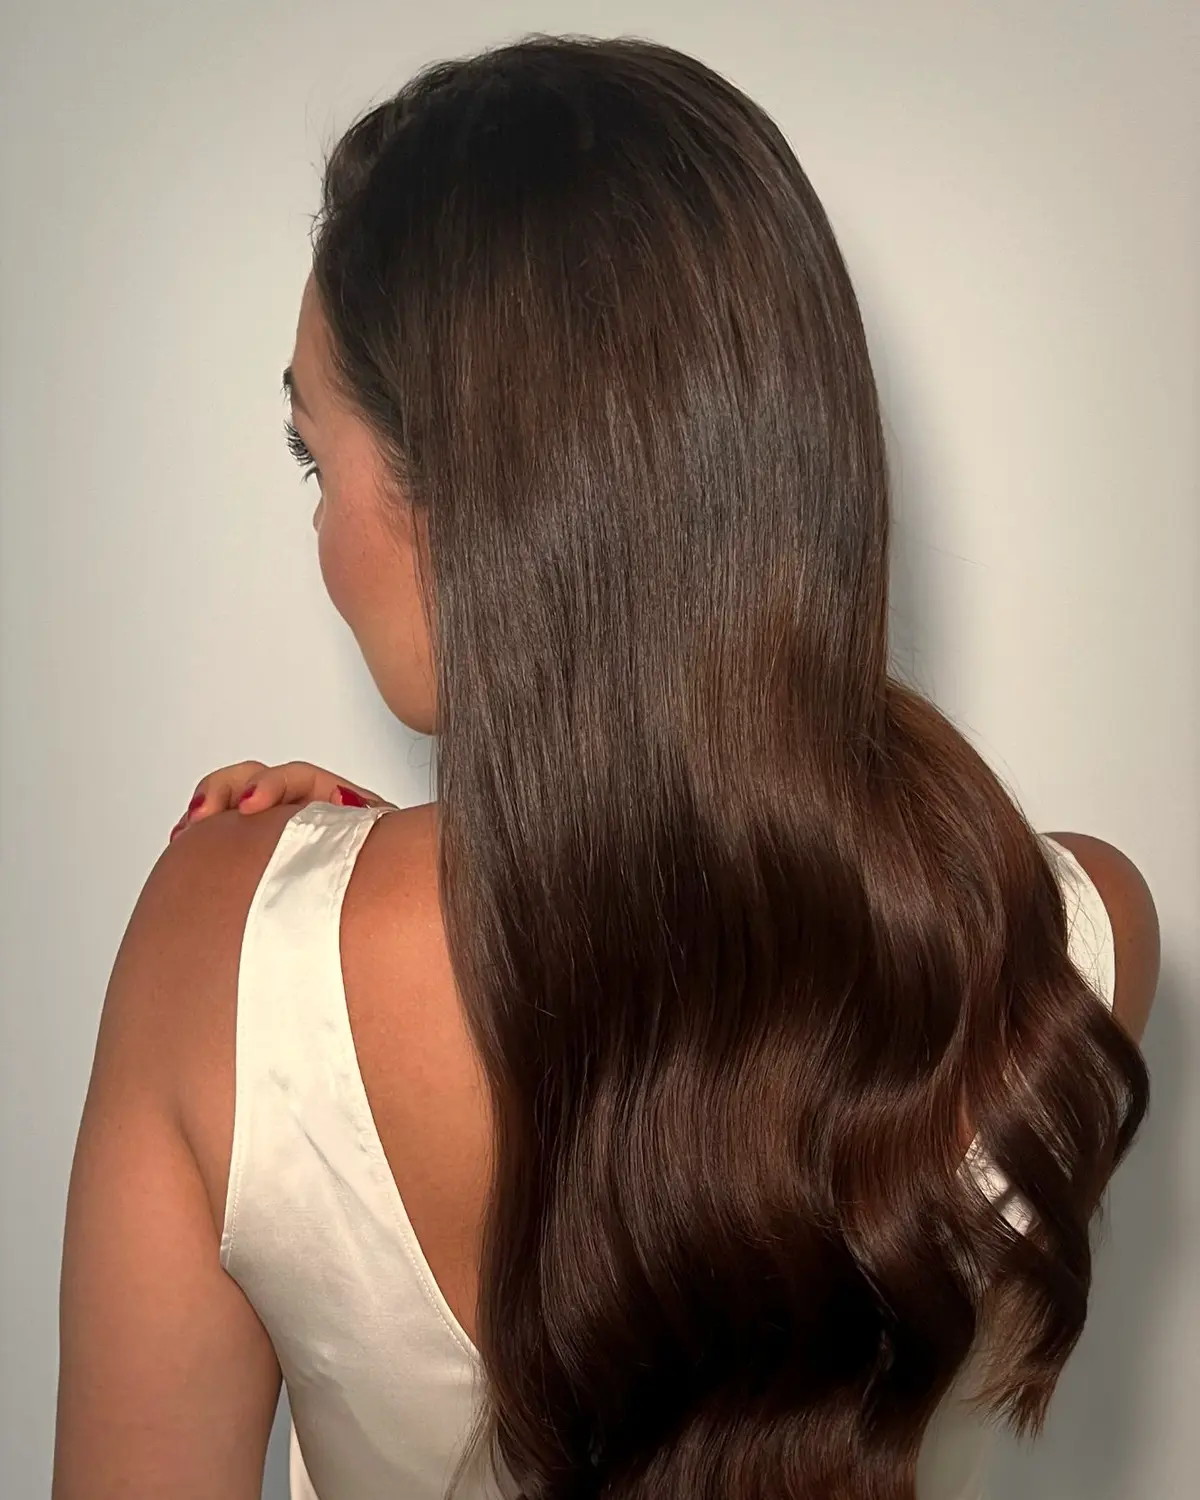
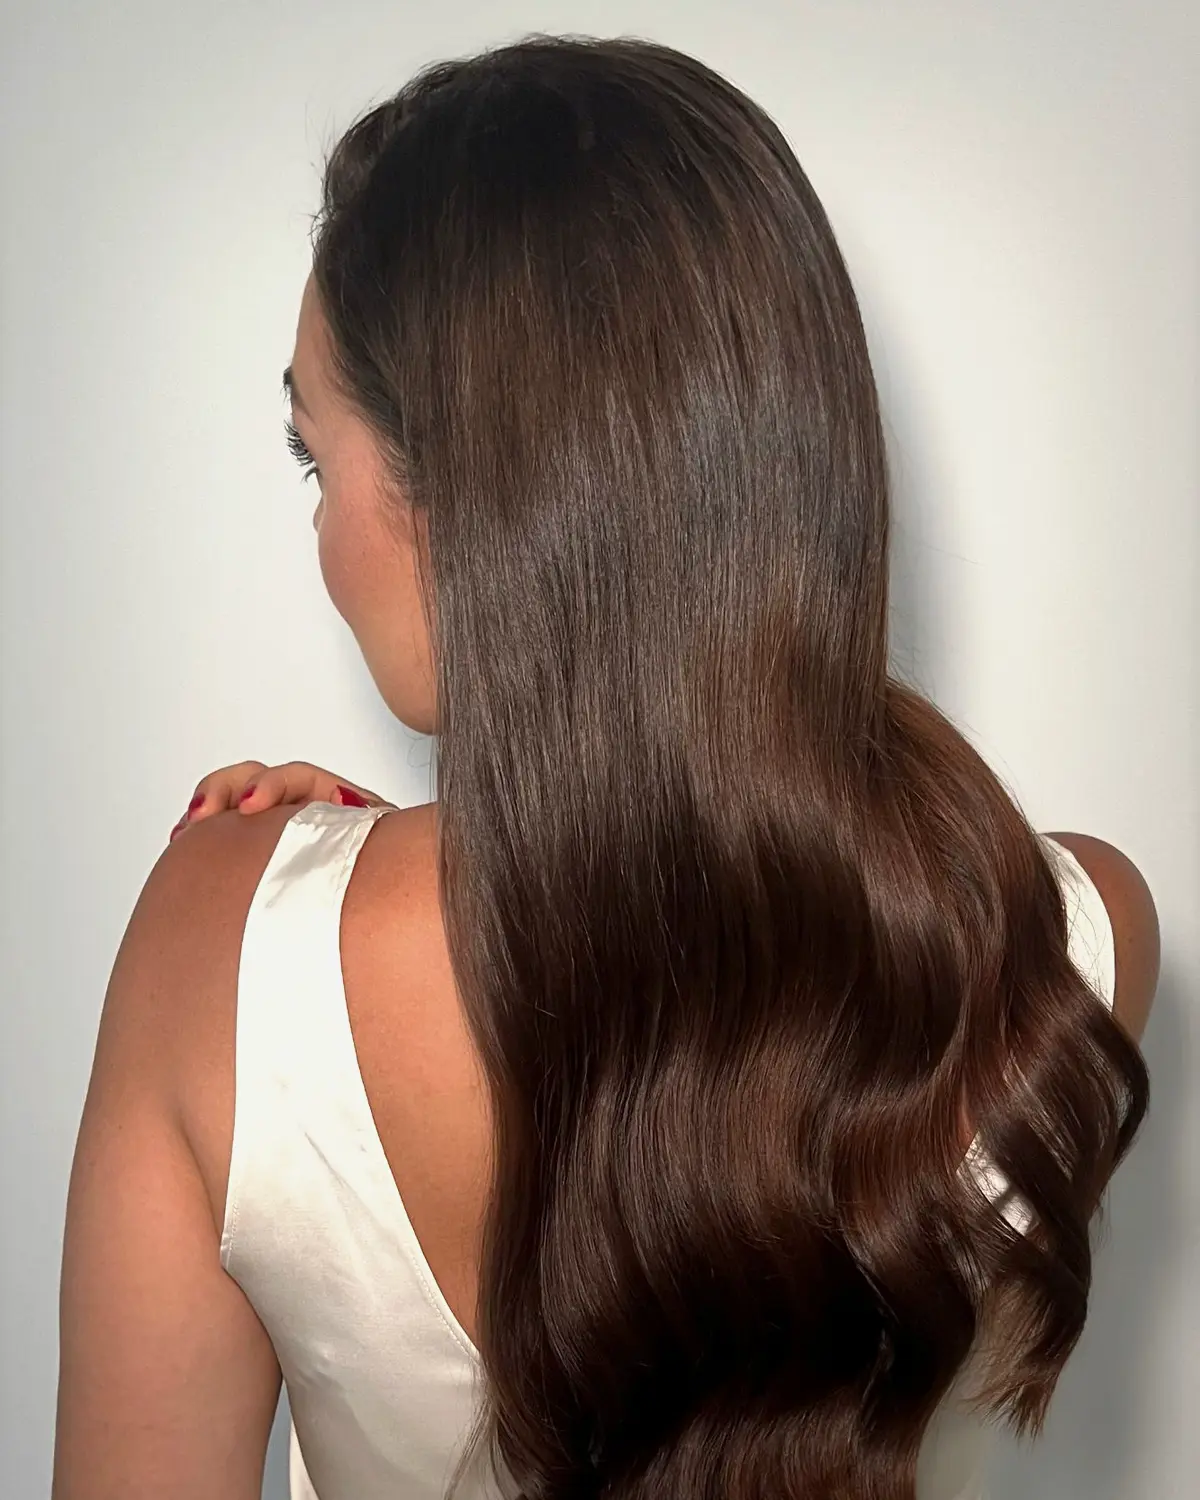
Add Half Up and Ponytail images, harmonize all catalog images
Claude-Session: https://claude.ai/code/session_01Psd1c15DkTXSssEPuBD7wk

diff --git a/bridal-looks/frisurenkatalog.html b/bridal-looks/frisurenkatalog.html
@@ -104,32 +104,32 @@
       </div>
     </div>
   </section>
-  <section id="frisur-3" class="border-t border-taupe/50 bg-champagne/50 scroll-mt-24" aria-labelledby="frisur-3-titel" data-draft>
+  <section id="frisur-3" class="border-t border-taupe/50 bg-champagne/50 scroll-mt-24" aria-labelledby="frisur-3-titel">
     <div class="max-w-content mx-auto px-6 md:px-10 py-16 md:py-24">
       <div class="reveal">
         <span class="eyebrow">Frisur 3</span>
         <h2 id="frisur-3-titel" class="font-display text-3xl md:text-4xl mt-3">Half Up</h2>
       </div>
       <div data-gallery class="mt-8 md:mt-10 flex flex-col md:flex-row gap-4 md:gap-6 md:items-start">
-        <div data-main class="reveal w-full md:w-[420px] aspect-[4/5] overflow-hidden"><div class="w-full h-full bg-champagne/70 border border-taupe/40 flex items-center justify-center text-sm text-espresso-soft">Titelbild folgt</div></div>
+        <div data-main class="reveal w-full md:w-[420px] aspect-[4/5] overflow-hidden"><img src="../assets/images/brautfrisur-half-up-geflochten-locken-sarstedt.webp" alt="Half-Up-Brautfrisur mit Flechtelement und weichen Locken, Rückansicht" class="w-full h-full object-cover" loading="lazy" width="1200" height="1500"></div>
         <div class="flex md:flex-col gap-4">
-          <button type="button" data-thumb aria-label="Beispielbild 1 groß anzeigen" class="w-24 md:w-28 aspect-[4/5] overflow-hidden border border-transparent hover:border-espresso focus-visible:border-espresso transition-colors"><div class="w-full h-full bg-champagne/70 border border-taupe/40 flex items-center justify-center text-sm text-espresso-soft">Beispiel 1</div></button>
-          <button type="button" data-thumb aria-label="Beispielbild 2 groß anzeigen" class="w-24 md:w-28 aspect-[4/5] overflow-hidden border border-transparent hover:border-espresso focus-visible:border-espresso transition-colors"><div class="w-full h-full bg-champagne/70 border border-taupe/40 flex items-center justify-center text-sm text-espresso-soft">Beispiel 2</div></button>
+          <button type="button" data-thumb aria-label="Weiteres Beispiel groß anzeigen" class="w-24 md:w-28 aspect-[4/5] overflow-hidden border border-transparent hover:border-espresso focus-visible:border-espresso transition-colors"><img src="../assets/images/brautfrisur-half-up-geflochten-blond-sarstedt.webp" alt="Half Up mit Flechtkranz bei blondem Haar, Rückansicht" class="w-full h-full object-cover" loading="lazy" width="1200" height="1500"></button>
+          <button type="button" data-thumb aria-label="Weiteres Beispiel groß anzeigen" class="w-24 md:w-28 aspect-[4/5] overflow-hidden border border-transparent hover:border-espresso focus-visible:border-espresso transition-colors"><img src="../assets/images/brautfrisur-half-up-twist-wellen-sarstedt.webp" alt="Half Up mit gedrehtem Haarknoten und langen Wellen, Rückansicht" class="w-full h-full object-cover" loading="lazy" width="1200" height="1500"></button>
         </div>
       </div>
     </div>
   </section>
-  <section id="frisur-4" class="border-t border-taupe/50 bg-ivory scroll-mt-24" aria-labelledby="frisur-4-titel" data-draft>
+  <section id="frisur-4" class="border-t border-taupe/50 bg-ivory scroll-mt-24" aria-labelledby="frisur-4-titel">
     <div class="max-w-content mx-auto px-6 md:px-10 py-16 md:py-24">
       <div class="reveal">
         <span class="eyebrow">Frisur 4</span>
         <h2 id="frisur-4-titel" class="font-display text-3xl md:text-4xl mt-3">Ponytail</h2>
       </div>
       <div data-gallery class="mt-8 md:mt-10 flex flex-col md:flex-row gap-4 md:gap-6 md:items-start">
-        <div data-main class="reveal w-full md:w-[420px] aspect-[4/5] overflow-hidden"><div class="w-full h-full bg-champagne/70 border border-taupe/40 flex items-center justify-center text-sm text-espresso-soft">Titelbild folgt</div></div>
+        <div data-main class="reveal w-full md:w-[420px] aspect-[4/5] overflow-hidden"><img src="../assets/images/brautfrisur-ponytail-seitenansicht-sarstedt.webp" alt="Brautfrisur Ponytail, Seitenansicht mit langen Wellen" class="w-full h-full object-cover" loading="lazy" width="1200" height="1500"></div>
         <div class="flex md:flex-col gap-4">
-          <button type="button" data-thumb aria-label="Beispielbild 1 groß anzeigen" class="w-24 md:w-28 aspect-[4/5] overflow-hidden border border-transparent hover:border-espresso focus-visible:border-espresso transition-colors"><div class="w-full h-full bg-champagne/70 border border-taupe/40 flex items-center justify-center text-sm text-espresso-soft">Beispiel 1</div></button>
-          <button type="button" data-thumb aria-label="Beispielbild 2 groß anzeigen" class="w-24 md:w-28 aspect-[4/5] overflow-hidden border border-transparent hover:border-espresso focus-visible:border-espresso transition-colors"><div class="w-full h-full bg-champagne/70 border border-taupe/40 flex items-center justify-center text-sm text-espresso-soft">Beispiel 2</div></button>
+          <button type="button" data-thumb aria-label="Weiteres Beispiel groß anzeigen" class="w-24 md:w-28 aspect-[4/5] overflow-hidden border border-transparent hover:border-espresso focus-visible:border-espresso transition-colors"><img src="../assets/images/brautfrisur-ponytail-tief-wellen-sarstedt.webp" alt="Tiefer Ponytail mit weichen Wellen, Rückansicht" class="w-full h-full object-cover" loading="lazy" width="1200" height="1500"></button>
+          <button type="button" data-thumb aria-label="Weiteres Beispiel groß anzeigen" class="w-24 md:w-28 aspect-[4/5] overflow-hidden border border-transparent hover:border-espresso focus-visible:border-espresso transition-colors"><img src="../assets/images/brautfrisur-ponytail-locken-sarstedt.webp" alt="Ponytail mit Locken, Rückansicht" class="w-full h-full object-cover" loading="lazy" width="1200" height="1500"></button>
         </div>
       </div>
     </div>
